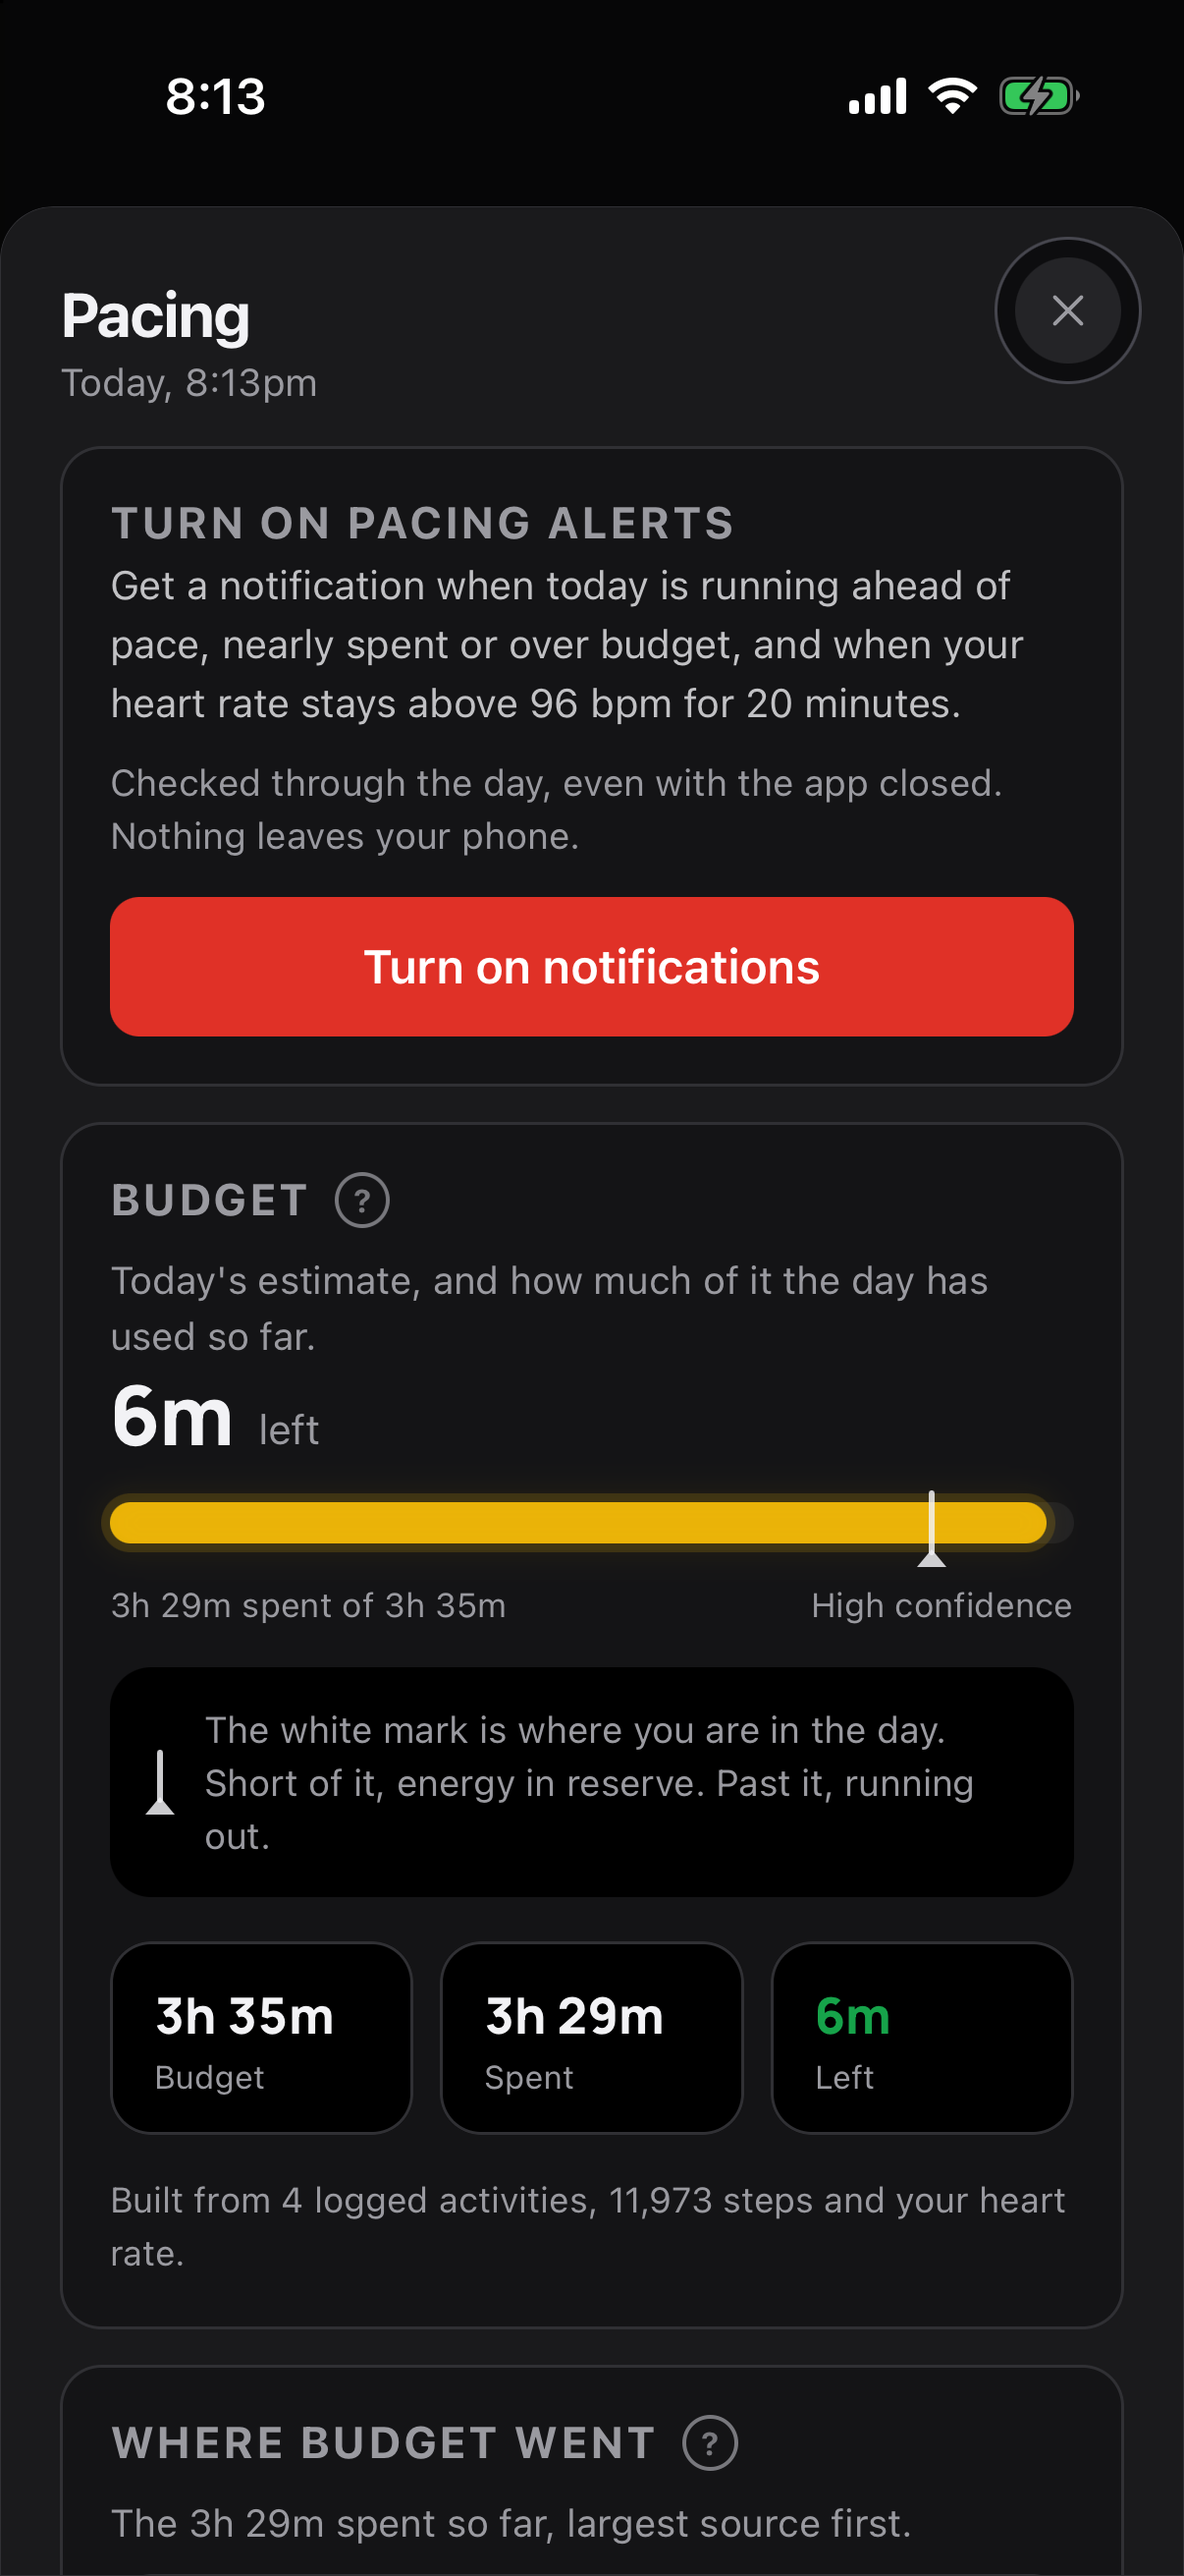
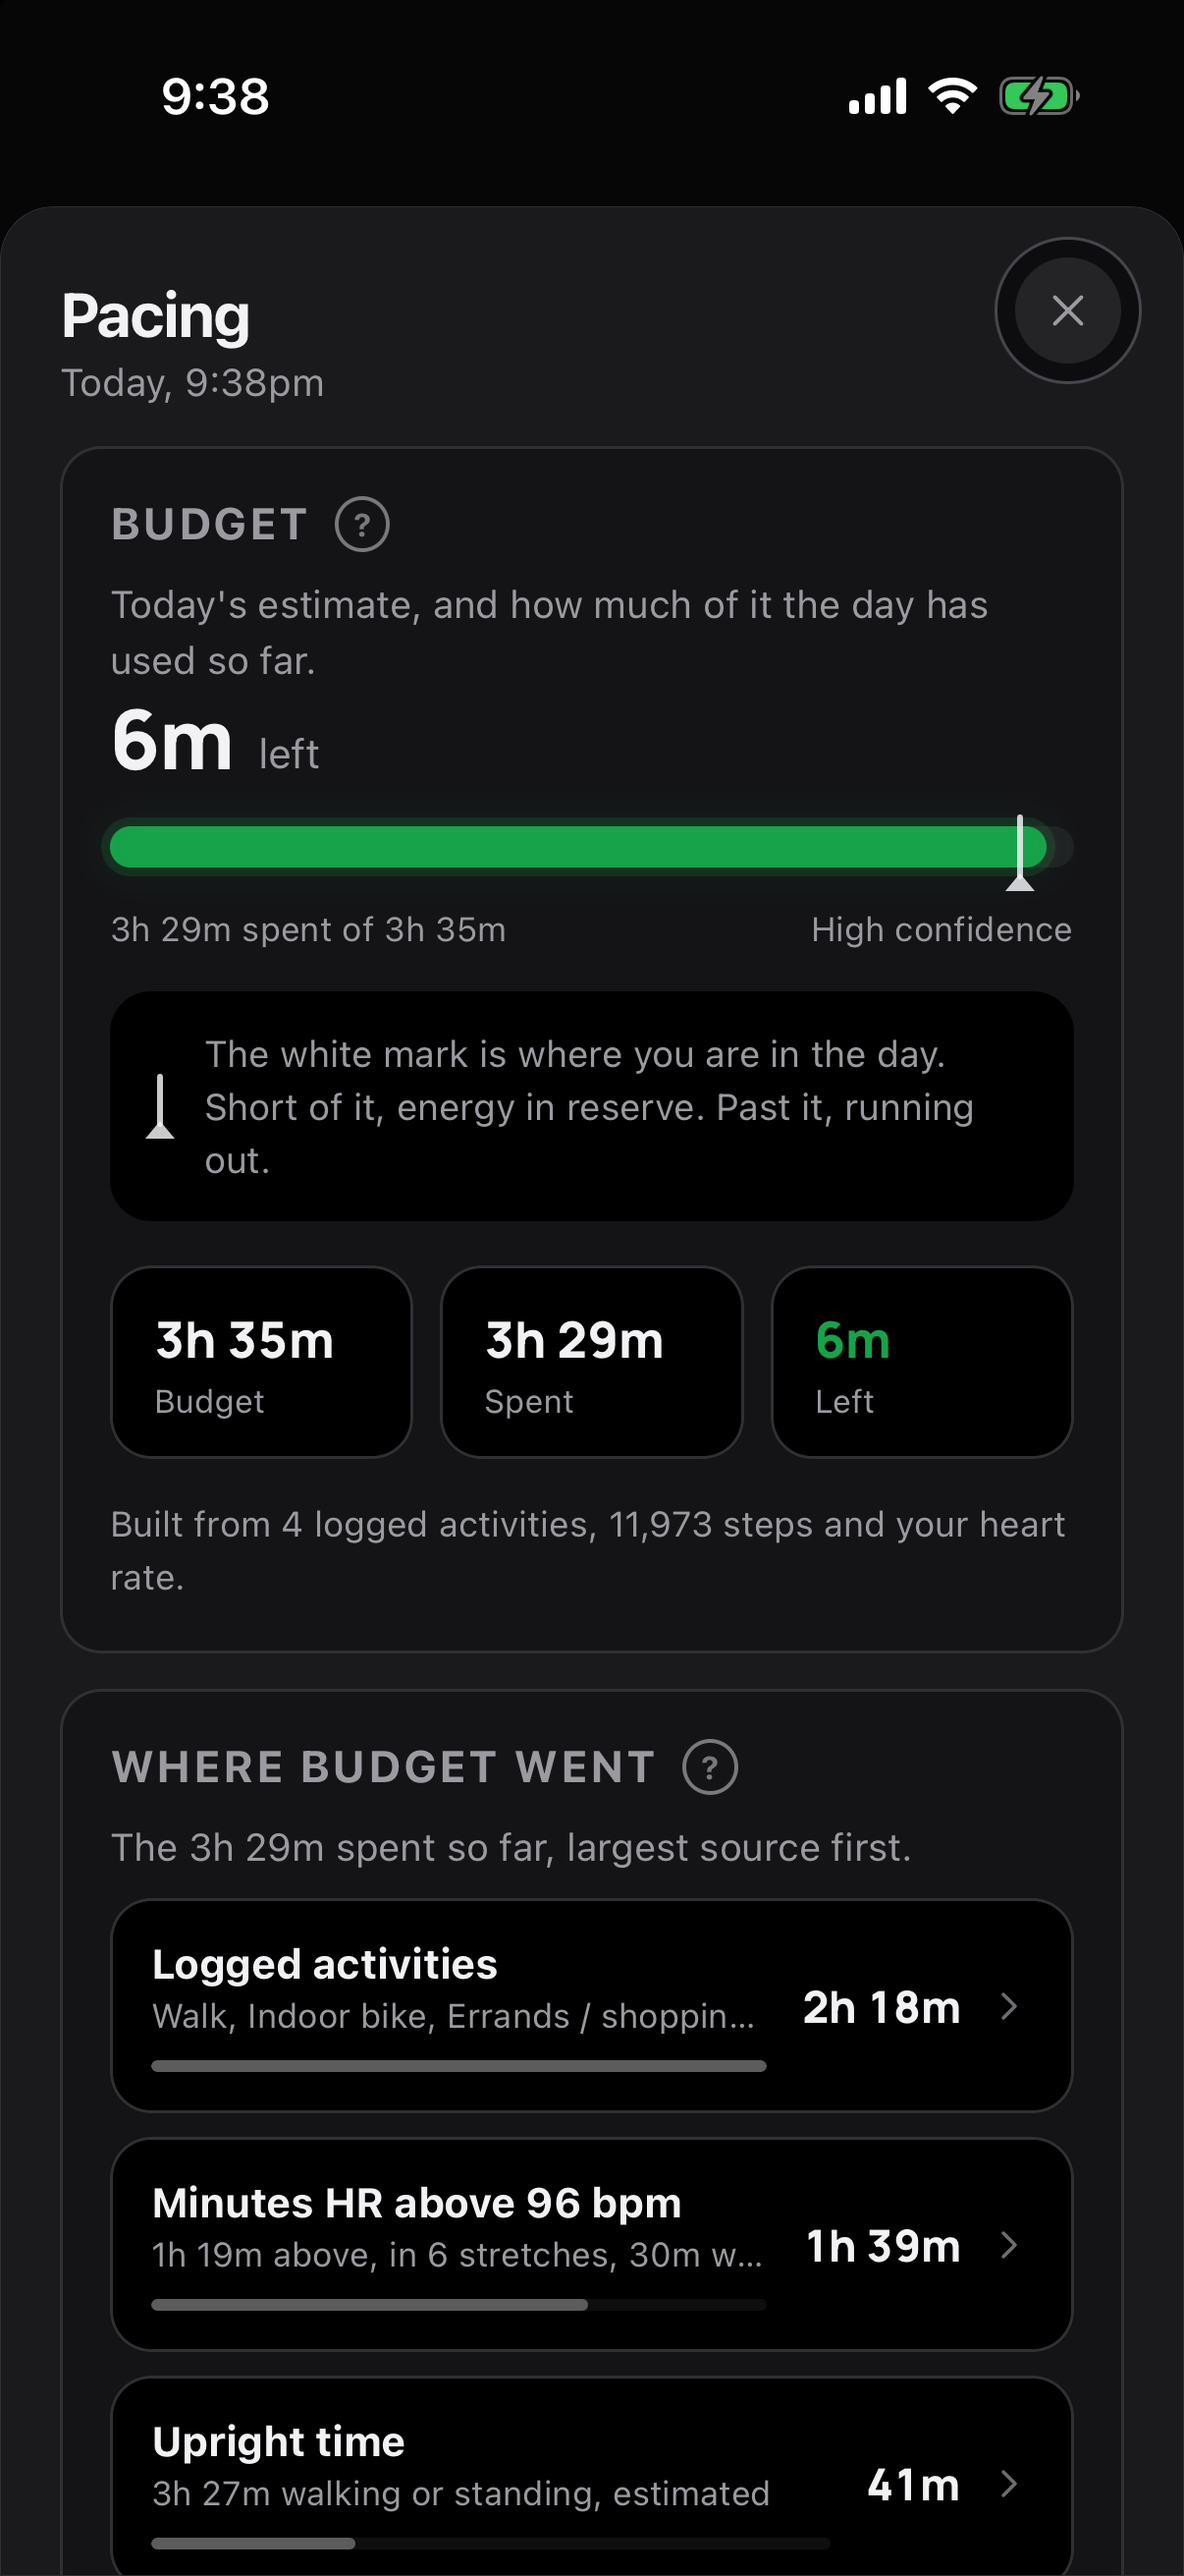
Pin notification permission for the screenshot shots
The pacing sheet led with "Turn on pacing alerts" instead of the budget,
and the plan for fixing it was wrong: I had said to tap Allow once by
hand on the shots simulator. There is nothing to tap. Xcode 27.2 on this
machine ships no Simulator.app, so every sim here is headless and driven
entirely by simctl; no system alert can ever be presented, let alone
answered. The CLI cannot grant it either (`simctl privacy grant
notifications` answers "Operation not permitted" on iOS 26.5, and
`grant all` does not cover it).

So the driver pins what the UI READS, beside the real answer rather than
in place of it, exactly as setDevTier and setDevPreviewPaywall already
do: setDevNotificationPermission('granted'), dev-only, consulted by
readNotificationPermission alone. No notification is scheduled, no OS
state is touched, and requestReminderPermission is untouched — a shot now
shows the screen a user who granted notifications genuinely sees, which
is the state most of them are in.

pacing-sheet re-captured: it leads with the envelope, the spend breakdown
and the pace marker.

Claude-Session: https://claude.ai/code/session_01P45yuGYo9frXBjNiFh5cxf

diff --git a/mobile/src/dev/shots.tsx b/mobile/src/dev/shots.tsx
@@ -47,6 +47,7 @@ import { HrvSetup } from '../features/hrv/Setup';
 import { SourcePicker } from '../features/hrv/SourcePicker';
 import { AiReportsSheet } from '../features/insights/AskAi';
 import { Calendar } from '../features/Calendar';
+import { setDevNotificationPermission } from '../lib/reminders';
 
 type Open = ReturnType<typeof useSheets>['openSheet'];
 interface Ctx { openSheet: Open; closeAll: () => void }
@@ -189,15 +190,6 @@ export const SHOTS: Shot[] = [
     settle: 3400,
     run: async ({ openSheet }) => {
       router.replace('/');
-      // NOTE: this sheet leads with a "turn on pacing alerts" ask whenever
-      // notification permission is missing, which on a fresh simulator it
-      // always is. It cannot be granted from the CLI — `simctl privacy grant
-      // notifications` answers "Operation not permitted" on iOS 26.5, and
-      // `grant all` does not cover it — and requesting it from here raises a
-      // system alert that nothing in this harness can tap, which then sits on
-      // top of the shot. So the ask is left standing. To lose it, tap Allow
-      // once by hand on the shots simulator; the grant sticks and every later
-      // run of this shot leads with the budget instead.
       await wait(1600);
       const dk = todayKey();
       openBudgetSheet(openSheet, dk, budgetOf(dk));
@@ -490,6 +482,12 @@ export function ShotDriver() {
         // itself on that, so a free-tier shot needs both switches.
         setDevPreviewPaywall(shot.tier === 'free');
         setDevTier(shot.tier || 'pro');
+        // The persona grants notifications, as most users do. On a headless
+        // simulator the OS can never be asked, so without this every card that
+        // asks for them stands on top of the feature being photographed —
+        // worst of all on the pacing sheet, which led with the ask instead of
+        // the budget. See `setDevNotificationPermission`.
+        setDevNotificationPermission('granted');
         applyFixture(shot.fixture);
         // AFTER the import, and again on the next tick. A claim is pinned for
         // the rest of its journal day and renders from its own memory alone,

diff --git a/mobile/src/lib/reminders.ts b/mobile/src/lib/reminders.ts
@@ -180,8 +180,31 @@ export async function canAskForReminders(): Promise<boolean> {
 
 export type NotificationPermission = 'granted' | 'ask' | 'blocked';
 
+/**
+ * DEV ONLY, and only for the marketing screenshot harness (src/dev/shots.tsx).
+ *
+ * The shots run on a HEADLESS simulator — there is no Simulator window on this
+ * machine, so no system alert can ever be tapped — and the permission cannot be
+ * granted from the CLI either: `simctl privacy grant notifications` answers
+ * "Operation not permitted" on iOS 26.5, and `grant all` does not cover it. So
+ * every card that asks for notifications stands permanently on a shots device,
+ * on top of the feature being photographed.
+ *
+ * This pins what the UI READS, nothing else: no notification is scheduled, no
+ * OS state is touched, and `requestReminderPermission` is untouched. It is the
+ * `setDevTier` / `setDevPreviewPaywall` pattern — a runtime pin beside the real
+ * answer, never an edit to the real answer — so a shot shows the screen a user
+ * who granted notifications actually sees.
+ */
+let devPermission: NotificationPermission | null = null;
+export function setDevNotificationPermission(p: NotificationPermission | null) {
+  if (!__DEV__) return;
+  devPermission = p;
+}
+
 /** The permission as a UI needs it: on, askable, or only fixable in settings. */
 export async function readNotificationPermission(): Promise<NotificationPermission> {
+  if (__DEV__ && devPermission) return devPermission;
   try {
     const p = await Notifications.getPermissionsAsync();
     return p.granted ? 'granted' : p.canAskAgain ? 'ask' : 'blocked';

diff --git a/marketing/screenshots/README.md b/marketing/screenshots/README.md
@@ -61,11 +61,19 @@ Then, with Metro running (`npm start` in `mobile/`):
   the next foreground and raises the HealthKit permission sheet, a system modal
   nothing here can dismiss, and it lands on top of every shot until the app is
   terminated.
-- **Notification permission cannot be granted from the CLI.** `simctl privacy
-  grant notifications` answers "Operation not permitted" on iOS 26.5 and
-  `grant all` does not cover it. That is why `pacing-sheet` leads with the "turn
-  on pacing alerts" ask. **Tap Allow once by hand on the shots simulator** and
-  every later run of that shot leads with the budget instead.
+- **Notification permission cannot be granted at all on a shots simulator, and
+  there is no human fallback.** `simctl privacy grant notifications` answers
+  "Operation not permitted" on iOS 26.5 and `grant all` does not cover it; and
+  there is no Simulator.app on this machine (Xcode 27.2 ships without one here),
+  so the sims are headless and no system alert can ever be tapped. Without the
+  grant, every card that asks for notifications stands permanently on top of the
+  feature being photographed — `pacing-sheet` led with the "turn on pacing
+  alerts" ask instead of the budget. The driver therefore pins what the UI
+  READS, via `setDevNotificationPermission('granted')` in `src/lib/reminders.ts`:
+  no notification is scheduled and no OS state is touched, so the shot shows the
+  screen a user who granted notifications genuinely sees. Same pattern as
+  `setDevTier` / `setDevPreviewPaywall` — a runtime pin beside the real answer,
+  never an edit to the real answer.
 - **A stuck system alert belongs to SpringBoard**, not the app, so it survives
   relaunching. Clear it with
   `xcrun simctl spawn <udid> launchctl stop com.apple.SpringBoard` (back in ~10s).

diff --git a/marketing/screenshots/INDEX.md b/marketing/screenshots/INDEX.md
@@ -46,7 +46,7 @@ truth, so add a shot there and update this index.
 | --- | --- | --- |
 | `pacing-ahead.png` | Gold strip: "6m left of 3h 35m", "At this pace the budget runs out around 8:32pm". | The frame that makes pacing click in one sentence. Probably the single most explanatory still in the library. |
 | `pacing-over.png` | Red strip: "Over by 2h 31m", "Resting now brings this back down". | PEM and post-exertional crash content. "It tells you before you pay for it." |
-| `pacing-sheet.png` | The envelope: 3h 35m budget, what the day has spent, the pace marker explained, high confidence, built from 4 activities + steps + heart rate. | Explaining how the budget is arrived at. **Note:** leads with a "turn on pacing alerts" ask, because notification permission cannot be granted from the CLI — see README. |
+| `pacing-sheet.png` | The envelope: 3h 35m budget, what the day has spent, the pace marker explained, high confidence, built from 4 activities + steps + heart rate. | Explaining how the budget is arrived at. The hero shot for pacing. |
 | `pacing-spend.png` | "Minutes HR above 96 bpm — 4h 06m charged of 6h 06m spent", split by band, longest stretch, highest reading. | "Your own exertion line, not a fitness zone." The receipt behind the bar. |
 
 ## Readings
